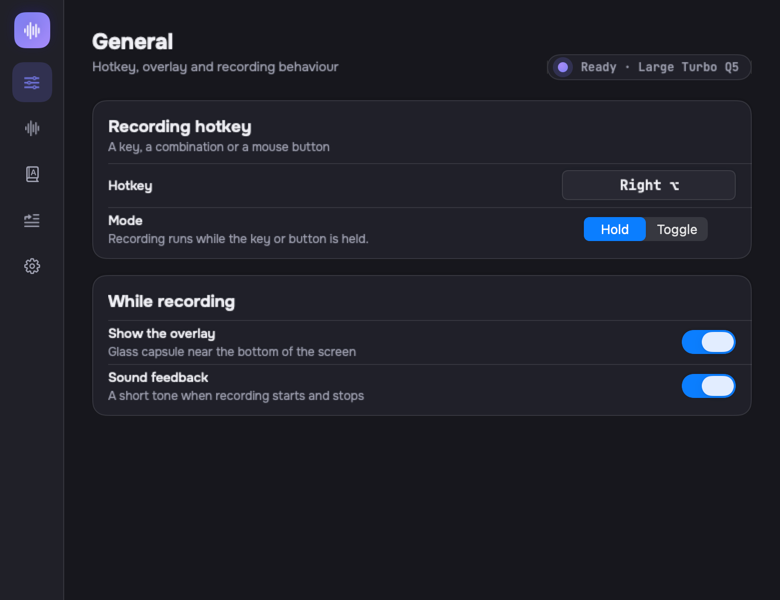
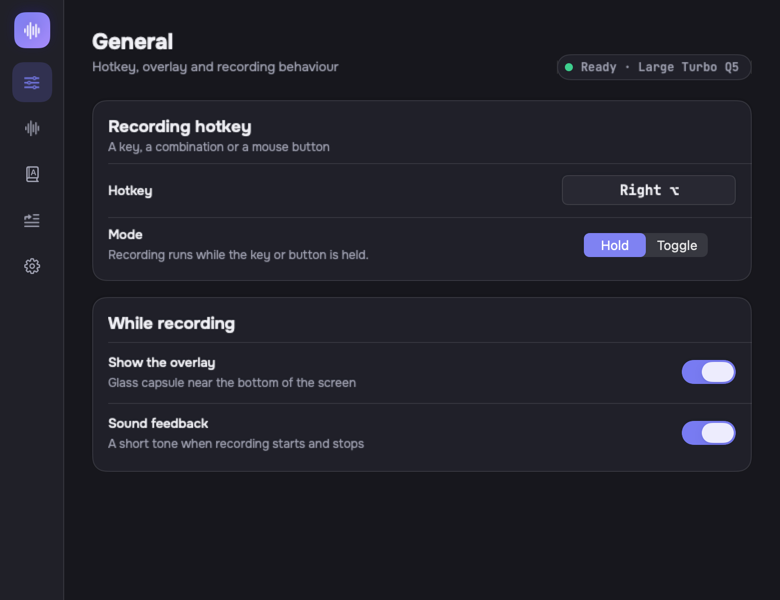
Regenerate surface screenshots after the owner's first round
Twenty-four files: the onboarding window is 640 x 540 now, the model step
lists five annotated rows, onboarding-done joins the set, Recognition
leads with Language and runs to the bottom edge, settings rows breathe,
the status pill's dot is green, and system controls are indigo.

The harness reads the popover's size until it settles: that surface sizes
itself from a measurement the list reports one layout pass late, and a
single pass would have captured it stretched to its cap.

The README said the wizard offers three of the five models and stopped
its account of the first run at the hotkey; both are now true again, and
the gallery gains the model and done steps. docs/permissions.md already
carries its historical banner and is left alone. The round's report joins
its feedback file under .superpowers/sdd/.

diff --git a/Tests/SayVoiceTests/SurfaceScreenshotTests.swift b/Tests/SayVoiceTests/SurfaceScreenshotTests.swift
@@ -169,13 +169,21 @@ final class SurfaceScreenshotTests: XCTestCase {
 
     // MARK: - Renderer
 
-    /// `nil` size means the view's own fitting size.
+    /// `nil` size means the view's own fitting size. The popover is the only
+    /// surface that sizes itself, and its list reports its height back through
+    /// the view state one layout pass late, so that size is read until it
+    /// settles — otherwise the capture shows the list stretched to its cap.
     private func render<V: View>(_ view: V, size: CGSize?, name: String, into directory: URL) throws {
         for dark in [true, false] {
             let host = NSHostingView(rootView: AnyView(view))
             host.appearance = NSAppearance(named: dark ? .darkAqua : .aqua)
-            host.layoutSubtreeIfNeeded()
-            let bounds = CGRect(origin: .zero, size: size ?? host.fittingSize)
+            let bounds: CGRect
+            if let size {
+                host.layoutSubtreeIfNeeded()
+                bounds = CGRect(origin: .zero, size: size)
+            } else {
+                bounds = CGRect(origin: .zero, size: HistoryPopover.settledFittingSize(of: host))
+            }
             host.frame = bounds
             host.layoutSubtreeIfNeeded()
 

diff --git a/README.md b/README.md
@@ -42,11 +42,11 @@ Copy the built app into `/Applications`:
 cp -R build/Build/Products/Release/SayVoice.app /Applications/
 ```
 
-On the first launch the onboarding asks for the two permissions the app cannot work without — Microphone and Accessibility (the hotkey listener and the Accessibility insertion need it) — then offers a model to download and lets you pick the hotkey. Both permissions are granted in System Settings → Privacy & Security.
+On the first launch the onboarding asks for the two permissions the app cannot work without — Microphone and Accessibility (the hotkey listener and the Accessibility insertion need it) — then offers a model to download, lets you pick the hotkey and closes with a confirmation screen. Both permissions are granted in System Settings → Privacy & Security.
 
 ## Models
 
-Models are downloaded on demand into `~/Library/Application Support/SayVoice/Models` and are never bundled with the app. Settings → Recognition lists all five; the first-run wizard offers three of them.
+Models are downloaded on demand into `~/Library/Application Support/SayVoice/Models` and are never bundled with the app. Settings → Recognition and the first-run wizard both list all five, each with a line saying what it is for.
 
 | Model | Size |
 |---|---|
@@ -124,6 +124,8 @@ The script generates the project if it is missing and runs the `SurfaceScreensho
 |---|---|---|
 | Recording overlay | [overlay-recording-dark](docs/screenshots/overlay-recording-dark.png) | [overlay-recording-light](docs/screenshots/overlay-recording-light.png) |
 | Onboarding — welcome | [onboarding-welcome-dark](docs/screenshots/onboarding-welcome-dark.png) | [onboarding-welcome-light](docs/screenshots/onboarding-welcome-light.png) |
+| Onboarding — model | [onboarding-model-dark](docs/screenshots/onboarding-model-dark.png) | [onboarding-model-light](docs/screenshots/onboarding-model-light.png) |
+| Onboarding — done | [onboarding-done-dark](docs/screenshots/onboarding-done-dark.png) | [onboarding-done-light](docs/screenshots/onboarding-done-light.png) |
 | History popover | [history-filled-dark](docs/screenshots/history-filled-dark.png) | [history-filled-light](docs/screenshots/history-filled-light.png) |
 | Settings — recognition | [settings-recognition-dark](docs/screenshots/settings-recognition-dark.png) | [settings-recognition-light](docs/screenshots/settings-recognition-light.png) |
 
